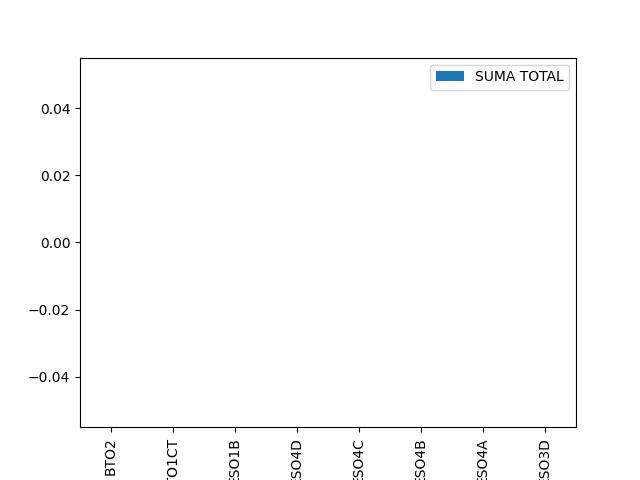
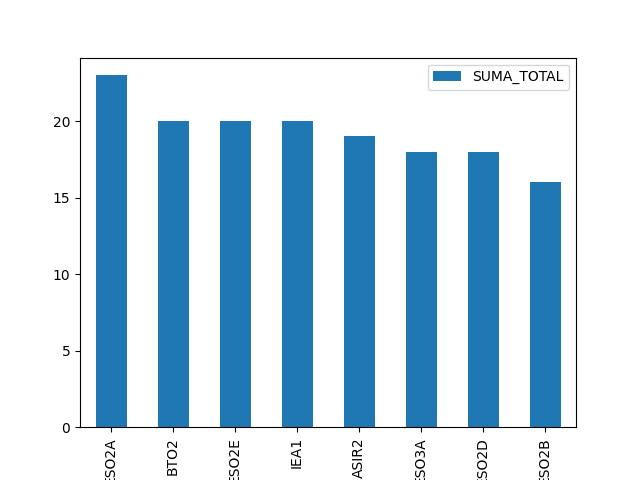
unix compatability

diff --git a/generate_charts.py b/generate_charts.py
@@ -7,5 +7,5 @@ def generate_charts (destination: str, data: DataFrame):
     dataFrames = split_dataFrame_by_position(data, 4)
 
     for i, dataFrame in enumerate(dataFrames):
-      dataFrame.plot(kind = 'bar', x = 'GRUPO', y = 'SUMA TOTAL')
+      dataFrame.plot(kind = 'bar', x = 'GRUPO', y = 'SUMA_TOTAL')
       savefig(destination + str(i) + '.jpg')

diff --git a/main.py b/main.py
@@ -21,7 +21,7 @@ def main ():
     exit(1)
 
   data = read(filename)
-  sorted_data = data.sort_values(by = ['SUMA TOTAL'], ascending = False)
+  sorted_data = data.sort_values(by = ['SUMA_TOTAL'], ascending = False)
   generate_charts(destination, sorted_data)
   
 
